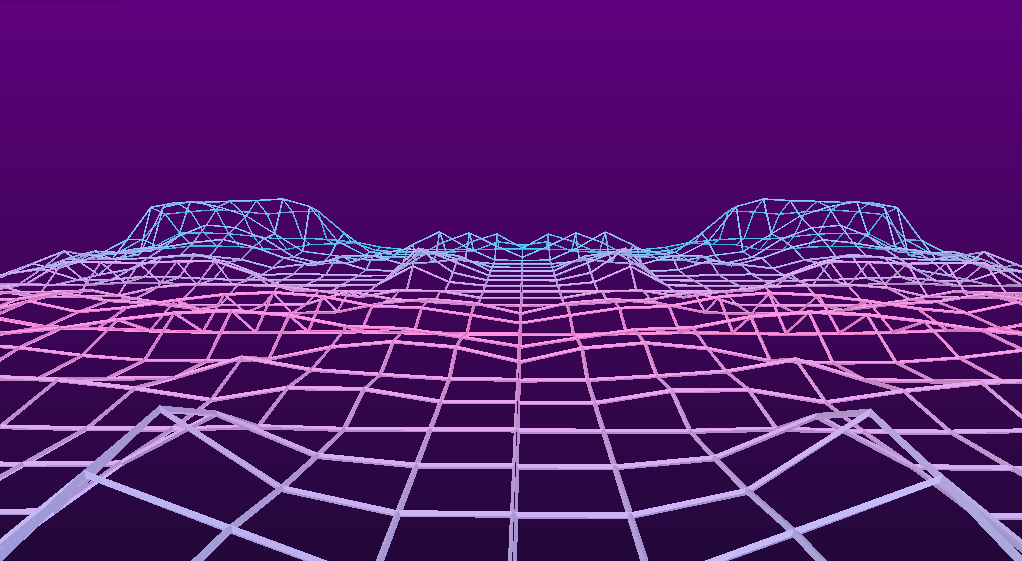
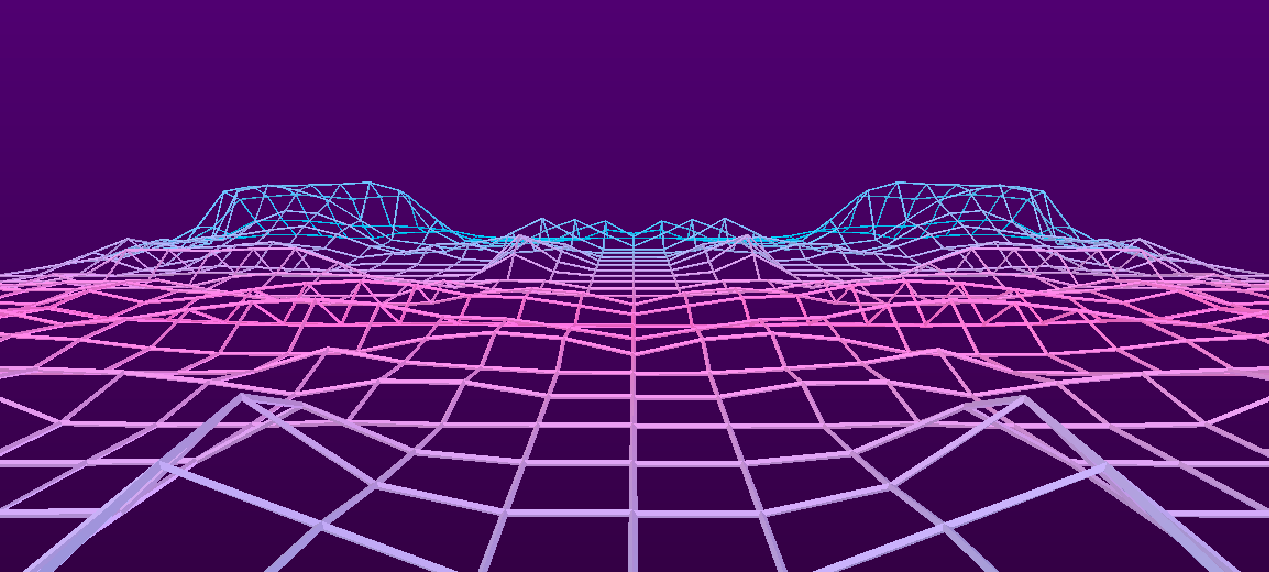
updated background

diff --git a/style.css b/style.css
@@ -1,6 +1,6 @@
 /*Global stuff*/
 body {
-    background: #542579 url("img/wfbg.png") repeat-x fixed bottom;
+    background: #481F6E url("img/wfbg.png") repeat-x fixed bottom;
 }
 
 ::selection {
